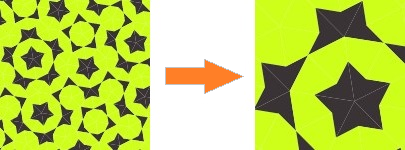
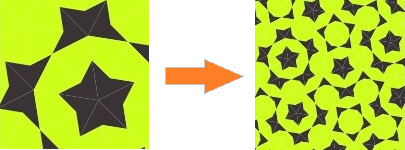
Corner bug solved, plus some small changes in density settings. Random x-y first tile placing and Random choose of open Tile (more randomness added).

diff --git a/penrose.js b/penrose.js
@@ -154,7 +154,7 @@ class Kite extends PenroseTile {
     // calculate the initial coordinates of BCD points. The ref. point is A in [0,0].
     #clacBCD(multipl, rotation) {
         const rotInRad = this.toRad(multipl * 36 + rotation);
-        return [Math.cos(rotInRad) * this.phi, Math.sin(rotInRad) * this.phi];
+        return [Math.cos(rotInRad), Math.sin(rotInRad)];
     }
 }
 
@@ -196,7 +196,7 @@ class Dart extends PenroseTile {
     // calculate the initial coordinates of BCD points. The ref. point is A in [0,0].
     #calcBCD(multipl, rotation) {
         const rotInRad = this.toRad(multipl * 36 + rotation);
-        const distance = multipl % 2 || this.phi;
+        const distance = (multipl + 1) % 2 || (1 / this.phi);
         return [Math.cos(rotInRad) * distance, Math.sin(rotInRad) * distance];
     }
 }
@@ -291,13 +291,15 @@ class DotManager {
     #openDots = []; // [Dot Object, Dot Object,...]
     #restrictedDots = []; // [Dot Object, Dot Object,...]
     #border;
+    #borderOverlay;
 
     constructor() {
         this.help = new Helper();
     }
 
-    init(firstTile, visibleArea) {
+    init(firstTile, visibleArea, scale) {
         this.#border = visibleArea;
+        this.#borderOverlay = scale * Math.sin((36 * Math.PI) / 180) * 2;
         this.setDots(firstTile, 'A', 1);
     }
 
@@ -323,8 +325,9 @@ class DotManager {
     }
 
     #getOpenPosition() {
-        const random = this.help.randomRange(1);
-        return this.#getTileDataByDot(this.#openDots[0], random);
+        const randomPossTileIndex = this.help.randomRange(1);
+        const randomOpenTileIndex = this.help.randomRange(this.#openDots.length - 1);
+        return this.#getTileDataByDot(this.#openDots[randomOpenTileIndex], randomPossTileIndex);
     }
 
     getNextTileBlueprint() {
@@ -401,7 +404,23 @@ class DotManager {
     }
 
     #borderControl(dot) {
-        return dot.coord.every((xy, i) => xy > 0 && xy < this.#border[i]);
+        // if the dot is outside the overlayed border, return false (the whole tile should be not rendered)
+        const dotInRenderZone = dot.coord.every((xy, i) => xy > (0 - this.#borderOverlay) && xy < (this.#border[i] + this.#borderOverlay));
+        if (!dotInRenderZone) return 0;
+
+        // the dot is inside the borders of viewport, return true (the whole tile must be rendered)
+        const dotInViewport = dot.coord.every((xy, i) => xy > 0 && xy < this.#border[i]);
+        if (dotInViewport) return 1;
+
+        // the other dots are in the overlay between viewport border and the not rendering zone
+        // calculate the absolute x y value/distances from a corner (no matter which corner, the coordinates are absolute)
+        let [absX, absY] = dot.coord;
+        absX = this.#border[0] / 2 - Math.abs(this.#border[0] / 2 - Math.abs(absX));
+        absY = this.#border[1] / 2 - Math.abs(this.#border[1] / 2 - Math.abs(absY));
+
+        // pitagoras comes handy by calculating the dot distance from the origo of the corner
+        const distanceFromTheCorner = Math.sqrt(absX ** 2 + absY ** 2);
+        return distanceFromTheCorner < this.#borderOverlay ? -1 : -2;
     }
 
     // could be made faster? first check dot.occupy.length === 1   ==>  indexes are -1
@@ -411,13 +430,14 @@ class DotManager {
         const indexOfOpenDot = this.#openDots.indexOf(dot);
         const indexOfRestrictedDot = this.#restrictedDots.indexOf(dot);
 
+        // if was restricted dot..
         indexOfRestrictedDot > -1
             ? this.#restrictedDots.splice(indexOfRestrictedDot, 1)
             : indexOfOpenDot > -1 && this.#openDots.splice(indexOfOpenDot, 1);
 
         if (dot.totalDegree === 360) {
             indexOfRestrictedDot > -1 &&
-                borderPermission &&
+                borderPermission % 2 &&
                 this.#openDots.splice(indexOfOpenDot, 1);
             dot.nextPossTiles = { ccw: [], cw: [] };
             return borderPermission;
@@ -426,7 +446,7 @@ class DotManager {
         const possTilesByRule = this.#dotRuleReferee(dot);
         (possTilesByRule.cw.length === 1 || possTilesByRule.ccw.length === 1) &&
             this.#restrictedDots.push(dot);
-        indexOfRestrictedDot < 0 && borderPermission && this.#openDots.push(dot);
+        indexOfRestrictedDot < 0 && borderPermission % 2 && this.#openDots.push(dot);
 
         dot.nextPossTiles = possTilesByRule;
         return borderPermission;
@@ -441,6 +461,7 @@ class DotManager {
 
         let point = newTileTouchPoint;
         let gapWatchdog = 0;
+        let renderable = -1;
 
         while (!newTile.dots[point]) {
             const dot = this.#getDotByCoord(newTile.coord[point]);
@@ -449,13 +470,25 @@ class DotManager {
             dot.addTile(newTile, point, direction);
             newTile.addDot(dot, point);
 
-            tileRenderSetup.renderable = this.#organizeDot(dot) ? true : tileRenderSetup.renderable;
+            const permission = this.#organizeDot(dot);
+            if (renderable < 0) 
+                renderable = !(renderable % 2) && !(permission > -1) ? renderable : permission;
+          /*  if (renderable > -1) {
+                renderable = renderable;
+            } else if (renderable === -2) {
+                renderable = permission > -1 ? permission : renderable;
+            } else {
+                renderable = permission;
+            }*/
+            
 
             dot.occupy.length > 1 && dot.totalDegree < 360 && gapWatchdog++;
             if (gapWatchdog > 2) return tileRenderSetup;
 
             point = PenroseTile.getNeigPointN(point);
         }
+
+        tileRenderSetup.renderable = Boolean(renderable);
         tileRenderSetup.succeed = true;
         return tileRenderSetup;
     }
@@ -488,7 +521,7 @@ class DotManager {
 class TileManager {
     // allTiles is the container for all created Tiles
     #allTiles = []; // [TileObj, TileObj, ...]
-    #scale = 20;
+    #scale;
 
     constructor() {}
 
@@ -635,7 +668,7 @@ class InteractionView {
                 height: this.#formInputHeight.valueAsNumber || window.innerHeight,
                 kiteColor: this.#formInputColorKite.value,
                 dartColor: this.#formInputColorDart.value,
-                density: this.#formInputDensity.valueAsNumber,
+                density: Number(this.#formInputDensity.max) + Number(this.#formInputDensity.min) - this.#formInputDensity.valueAsNumber,
                 rotation: this.#formInputRotation.valueAsNumber,
             };
 
@@ -694,16 +727,18 @@ class RenderView {
     clearView() {
         this.svgContainer.innerText = '';
         this.#SVGelement = `<svg version="1.1" xmlns="http://www.w3.org/2000/svg" xmlns:xlink="http://www.w3.org/1999/xlink" x="0" y="0"
-    width="${this.width}" height="${this.height}">`;
+        width="${this.width}" height="${this.height}">`;
     }
 }
 // viewBox="0 0 ${this.width} ${this.height}
+// width="${this.width}" height="${this.height}
 class Controller {
     constructor() {
         this.dotManager = new DotManager();
         this.tileManager = new TileManager();
         this.view = new RenderView();
         this.interact = new InteractionView();
+        this.help = new Helper();
         this.init();
     }
 
@@ -713,8 +748,6 @@ class Controller {
 
     #patternGenerator(penroseSettings) {
         //generate random x,y first placing
-        const tileName = Math.round(Math.random()) ? 'kite' : 'dart';
-
         const visibleArea = [penroseSettings.width, penroseSettings.height];
         const rotation = penroseSettings.rotation;
         const scale = penroseSettings.density;
@@ -723,10 +756,17 @@ class Controller {
             dartColor: penroseSettings.dartColor,
         };
 
-        const firstTile = this.tileManager.init(tileName, 100, 100, rotation, scale);
+        const firstTileName = Math.round(Math.random()) ? 'kite' : 'dart';
+        const initX = this.help.randomRange(visibleArea[0]);
+        const initY = this.help.randomRange(visibleArea[1]);  
+
+        console.log(firstTileName);
+        console.log(initX , initY);
+
+        const firstTile = this.tileManager.init(firstTileName, initX, initY, rotation, scale);
 
         this.view.init(visibleArea, colorPalette);
-        this.dotManager.init(firstTile, visibleArea);
+        this.dotManager.init(firstTile, visibleArea, scale);
         this.view.addToSVG(firstTile);
         this.#mainLoop();
     }
@@ -762,7 +802,7 @@ class Controller {
 
         !setDotsResult.succeed && this.#removeElement(newTile);
 
-        return setDotsResult.renderable && setDotsResult.succeed && newTile;
+        return setDotsResult.succeed && setDotsResult.renderable && newTile;
     }
 
     #mainLoop() {

diff --git a/generator.html b/generator.html
@@ -57,7 +57,7 @@
                             type="color"
                             name="color_one"
                             form="settings"
-                            value="#9a722F"
+                            value="#151D89"
                         /><br />
                         <label for="color_dart" form="settings">Dart color</label>
                         <input
@@ -65,7 +65,7 @@
                             type="color"
                             name="color_two"
                             form="settings"
-                            value="#00b9ad"
+                            value="#EBA000"
                         />
                     </div>
 
@@ -79,12 +79,12 @@
                             id="density"
                             type="range"
                             name="density"
-                            min="5"
-                            max="150"
-                            value="125"
+                            min="10"
+                            max="100"
+                            value="75"
                             form="settings"
                         />
-                        <div class="range-display">125</div>
+                        <div class="range-display">75</div>
                         <p class="notes">
                             Please note that the larger and denser the image, the longer it takes to
                             generate.

diff --git a/index.html b/index.html
@@ -69,8 +69,7 @@
             </div>
             <div class="about-me">
                 <img src="img/me.jpg" alt="Portrait of me" />
-                <p>
-                    Hello! <br />
+                <p>Hello! <br />
                     My name is Peter Duricek and I love solving problems. In programming I could
                     find the best desire, because when there is a solution for a problem, you have
                     all the tools to find it. It's just up to me whether I can solve it or not.

diff --git a/general.css b/general.css
@@ -117,7 +117,7 @@ footer {
     grid-row: 1 / 2;
     grid-column: 1 / 2;
     width: 65%;
-    text-align: right;
+    text-align: justify;
     margin: 50px 0 0;
     font-size: xx-small;
     font-style: italic;
